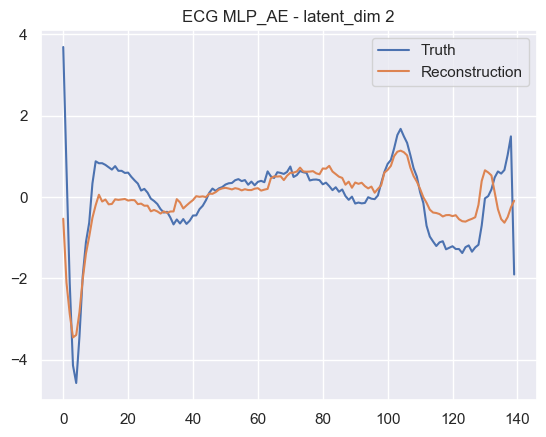
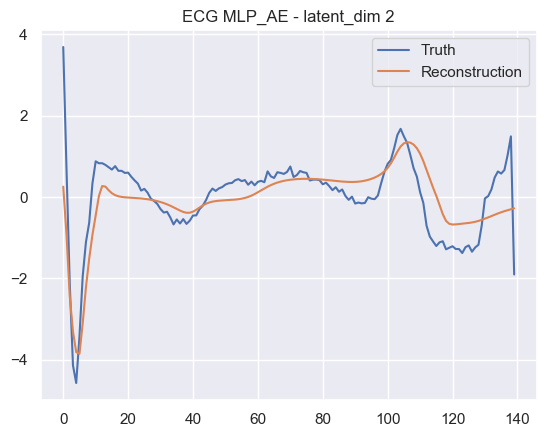
LSTM_AE finally working

Changed region(s): [[0.0934, 0.4165, 0.4982, 0.8032], [0.4982, 0.3272, 0.9652, 0.5355]]

diff --git a/models.py b/models.py
@@ -1,4 +1,7 @@
+import torch
 import torch.nn as nn
+from torch.autograd import Variable
+import numpy as np
 from layers import Flatten, Reshape, Permute
 
 class MLP_AE(nn.Module):
@@ -44,6 +47,52 @@ class CNN_AE(nn.Module):
             nn.ConvTranspose1d(8, 1, 3, stride=2, output_padding=1), # (1, 140)
             Permute(0, 2, 1)
         )
+    def forward(self, x):
+        x = self.encoder(x)
+        x = self.decoder(x)
+        return x
+
+class EncoderLSTM(nn.Module):
+    def __init__(self, config):
+        super(EncoderLSTM, self).__init__()
+        self.__dict__.update(config)
+
+        self.lstm = nn.LSTM(self.input_dim, self.units_enc, batch_first=True)
+        
+        #initialize weights with glorot uniform (like in Keras)
+        nn.init.xavier_uniform_(self.lstm.weight_ih_l0, gain=np.sqrt(6 / (self.input_dim + self.units_enc)))
+        nn.init.xavier_uniform_(self.lstm.weight_hh_l0, gain=np.sqrt(6 / (self.input_dim + self.units_dec)))
+        
+    def forward(self, x):
+        x, hidden = self.lstm(x)
+        hidden = Permute(1, 0, 2)(hidden[0])
+        hidden = hidden.repeat(1, self.timesteps, 1)
+        return hidden
+
+class DecoderLSTM(nn.Module):
+    def __init__(self, config):
+        super(DecoderLSTM, self).__init__()
+        self.__dict__.update(config)
+        
+        self.lstm = nn.LSTM(self.units_enc, self.units_dec, batch_first=True)
+        self.dense = nn.Linear(self.units_dec, self.input_dim)
+
+        #initialize weights
+        nn.init.xavier_uniform_(self.lstm.weight_ih_l0, gain=np.sqrt(6 / (self.units_enc + self.units_dec)))
+        nn.init.xavier_uniform_(self.lstm.weight_hh_l0, gain=np.sqrt(6 / (self.units_enc + self.units_dec)))
+        
+    def forward(self, x):
+        x, hidden = self.lstm(x)
+        x = self.dense(x)
+        return x
+
+class LSTM_AE(nn.Module):
+    def __init__(self, config):
+        super(LSTM_AE, self).__init__()
+        self.__dict__.update(config)
+        self.encoder = EncoderLSTM(config)
+        self.decoder = DecoderLSTM(config)
+        
     def forward(self, x):
         x = self.encoder(x)
         x = self.decoder(x)

diff --git a/run.py b/run.py
@@ -3,7 +3,7 @@ import torch.nn as nn
 from torch.utils import data
 from torch.autograd import Variable
 from datasets import ECG5000
-from models import MLP_AE, CNN_AE
+from models import MLP_AE, CNN_AE, LSTM_AE
 import numpy as np
 import pandas as pd
 import matplotlib.pyplot as plt
@@ -29,13 +29,13 @@ config = {
     'input_dim' : 1,
     'optimizer' : 'adam',
     'loss' : 'mse',
-    'epochs' : 100,
+    'epochs' : 300,
     'batch_size' : 64,
     'gpu' : False,
     'standardize' : True,
     'normalize' : False,
-    'units_enc' : 64,
-    'units_dec' : 64,
+    'units_enc' : 32,
+    'units_dec' : 32,
     'latent_dim' : 2,
     'num_classes' : 1    
 }
@@ -53,7 +53,7 @@ validation_set = ECG5000(data_set='validation')
 validation_generator = data.DataLoader(validation_set, **params_loader)
 test_set = ECG5000(data_set='test')
 
-model = MLP_AE(config).to(device)
+model = LSTM_AE(config).to(device)
 distance = nn.MSELoss()
 optimizer = torch.optim.Adam(model.parameters(),weight_decay=1e-5)
 print(model)
